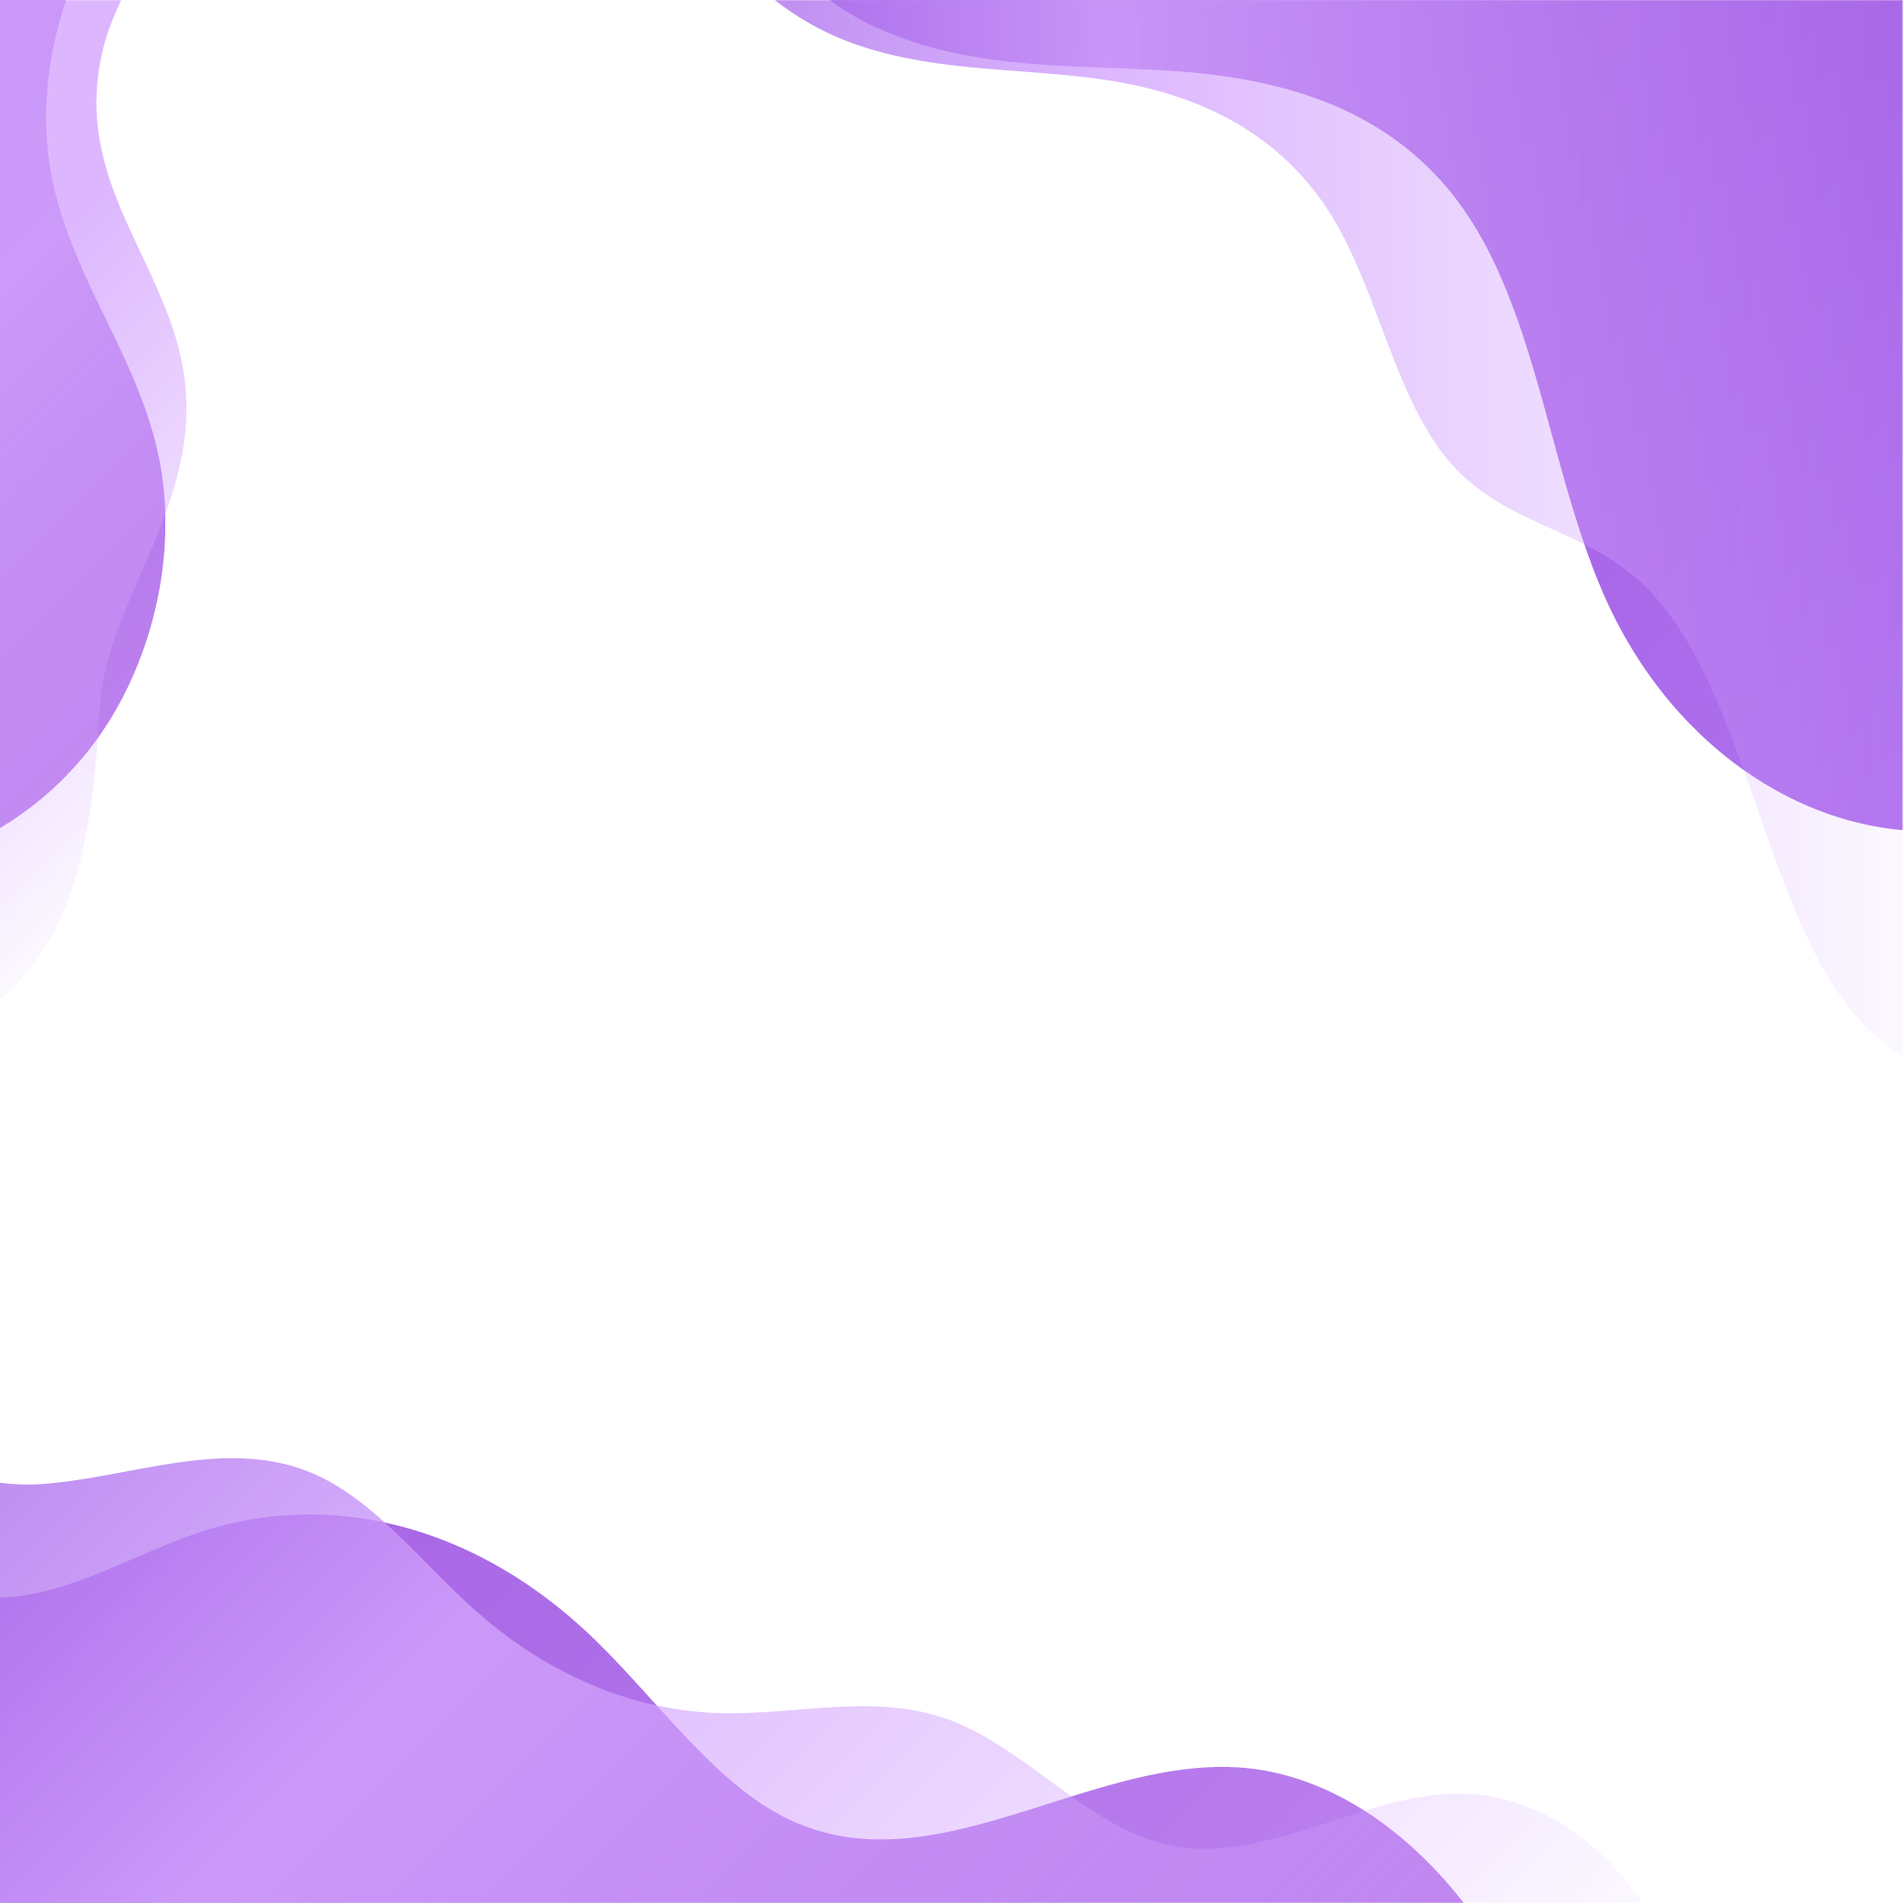
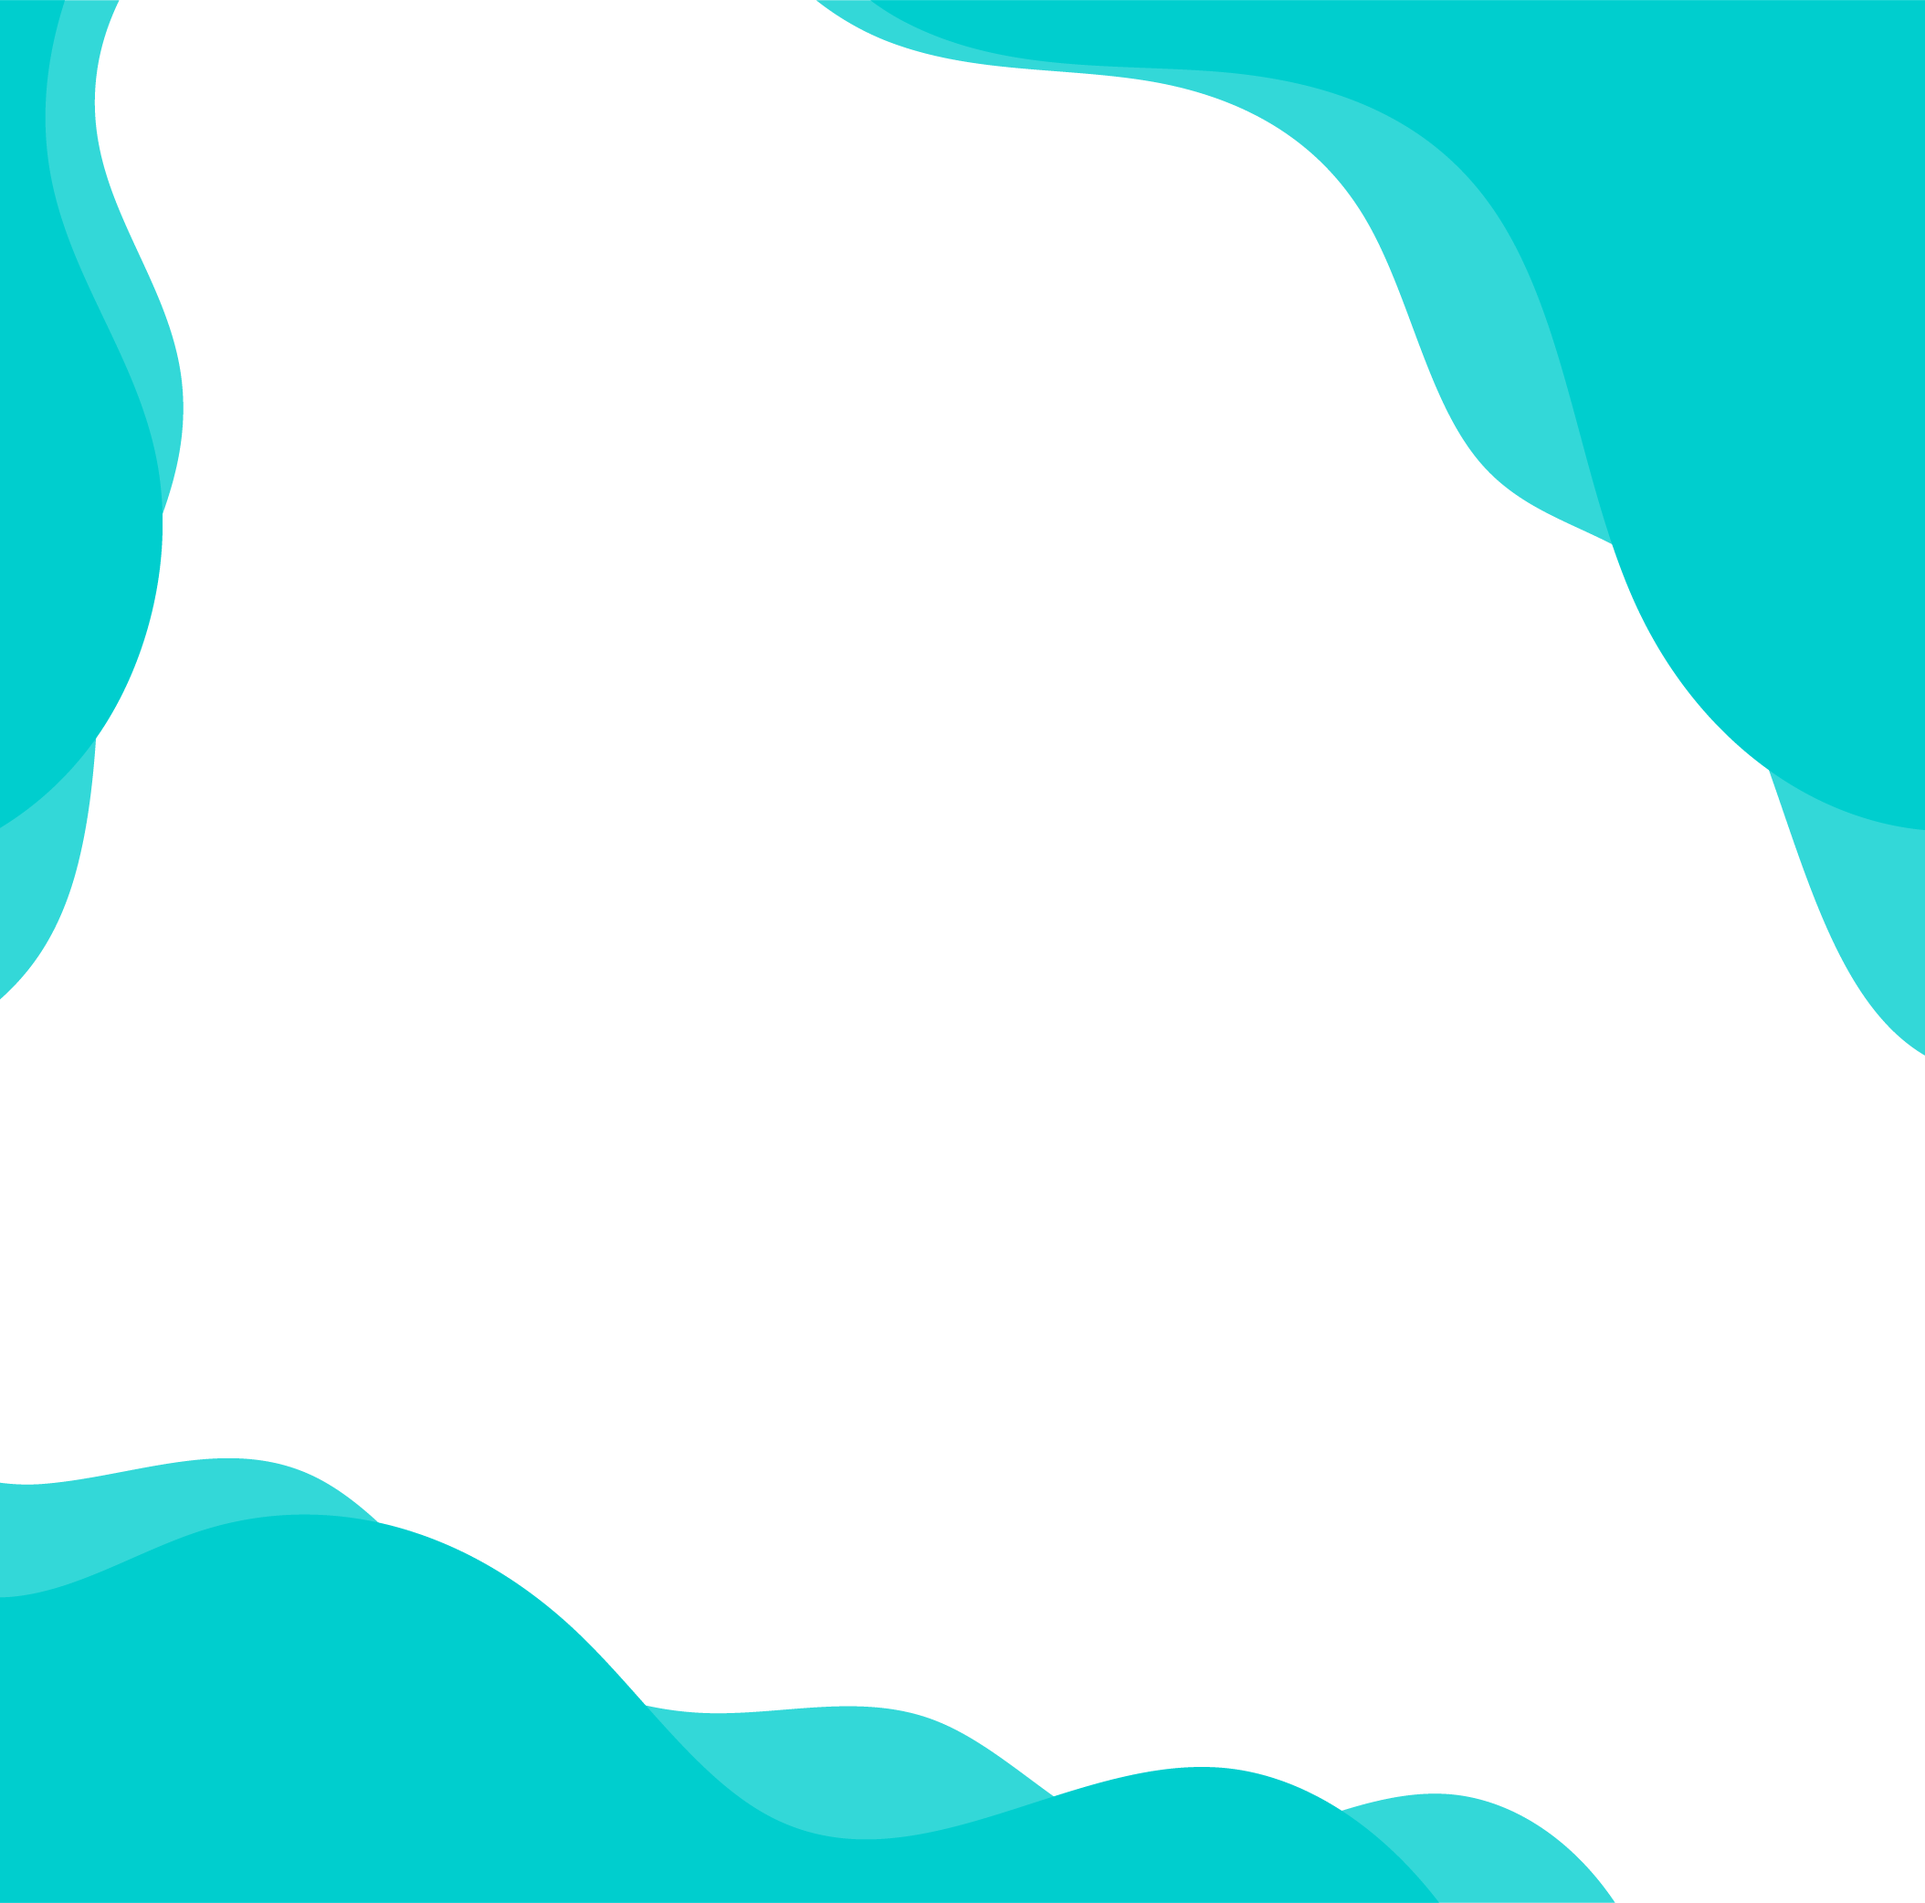
style and content

Changed region(s): [[0.4055, 0.0, 1.0, 0.5614], [0.0, 0.7486, 0.8421, 1.0], [0.0, 0.0, 0.1248, 0.5302]]

diff --git a/index.html b/index.html
@@ -19,7 +19,8 @@
                 <h1> <span class="aqua-color">M.R. Tanvir's</span> World!</h1>
 
                 <h2>Web developer</h2>
-                <p class="about-me">Welcome to my portfolio website! I am M. R.
+                <p class="Paragraph-design">Welcome to my portfolio website! I
+                    am M. R.
                     Tanvir Raihan, a
                     passionate computer science and engineering graduate from
                     Shanto-Mariam University of Creative Technology. With a
@@ -62,5 +63,29 @@
 
         </section>
 
+        <section class="dreambig">
+
+            <div class="half-width">
+                <img src="/images/tanvir2.png" alt="Tanvirs second pic">
+            </div>
+            <div class="half-width">
+                <h1>Dream Big</h1>
+                <h2>Become a web developer</h2>
+                <p class="Paragraph-design">My primary goal is to continue
+                    growing as a web developer in
+                    the dynamic world of technology. I aim to consistently
+                    expand my skill set in the MERN stack and explore emerging
+                    web development trends and technologies. Through a
+                    dedication to creating user-centric and innovative digital
+                    solutions, I aspire to collaborate with clients and teams to
+                    bring their visions to life. I am committed to delivering
+                    high-quality, performant, and visually appealing web
+                    applications that not only meet but exceed the expectations
+                    of end-users. Ultimately, my goal is to contribute to the
+                    ever-evolving web development landscape and make a positive
+                    impact through the projects I undertake.</p>
+                <a class="linkbutton" href target="_blank">Download Resume</a>
+            </div>
+        </section>
     </body>
 </html>

diff --git a/style.css b/style.css
@@ -1,4 +1,13 @@
-body{font-family: 'Poppins', sans-serif;}
+
+body{font-family: 'Poppins', sans-serif;  
+    marging:0;
+background-image: url(images/background.png);
+background-repeat: no-repeat;
+background-size: 100% 100%;
+
+}
+
+
 h1{font-size: 55px;}
 .aqua-color{color: aqua;}
 section{
@@ -7,12 +16,22 @@ section{
 .half-width{width:50%;
     padding-left: 5%;
     padding-top: 5%;
+    padding-bottom: 5%;
 }
 .half-width img{width: 80%;}
 .linkbutton{
-
 text-decoration: none;
-background-color:aqua;
+background-image:linear-gradient(aqua,blue);
 padding: 10px 40px;
 border-radius: 6px;
+color:white;
+}
+.Paragraph-design{
+
+    background-image: linear-gradient(aqua,white);
+   back
+   background-color: rgba(0, 0, 0, 0.4);
+   border-radius: 20px;
+   padding: 50px;
+   text-align: justify;
 }
